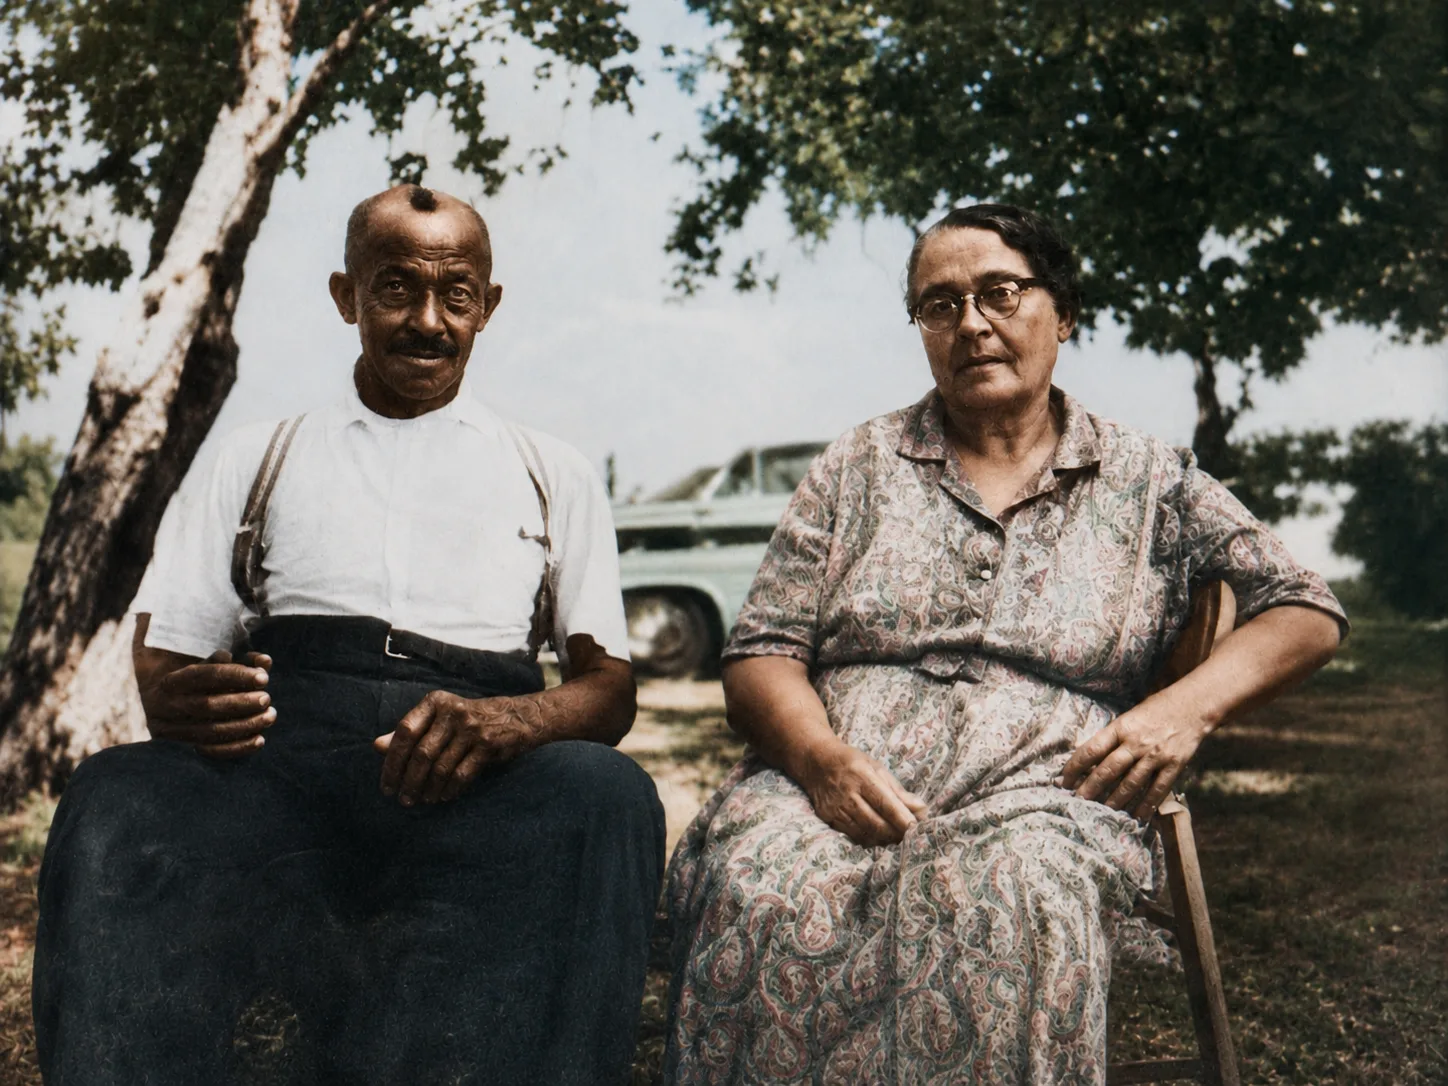
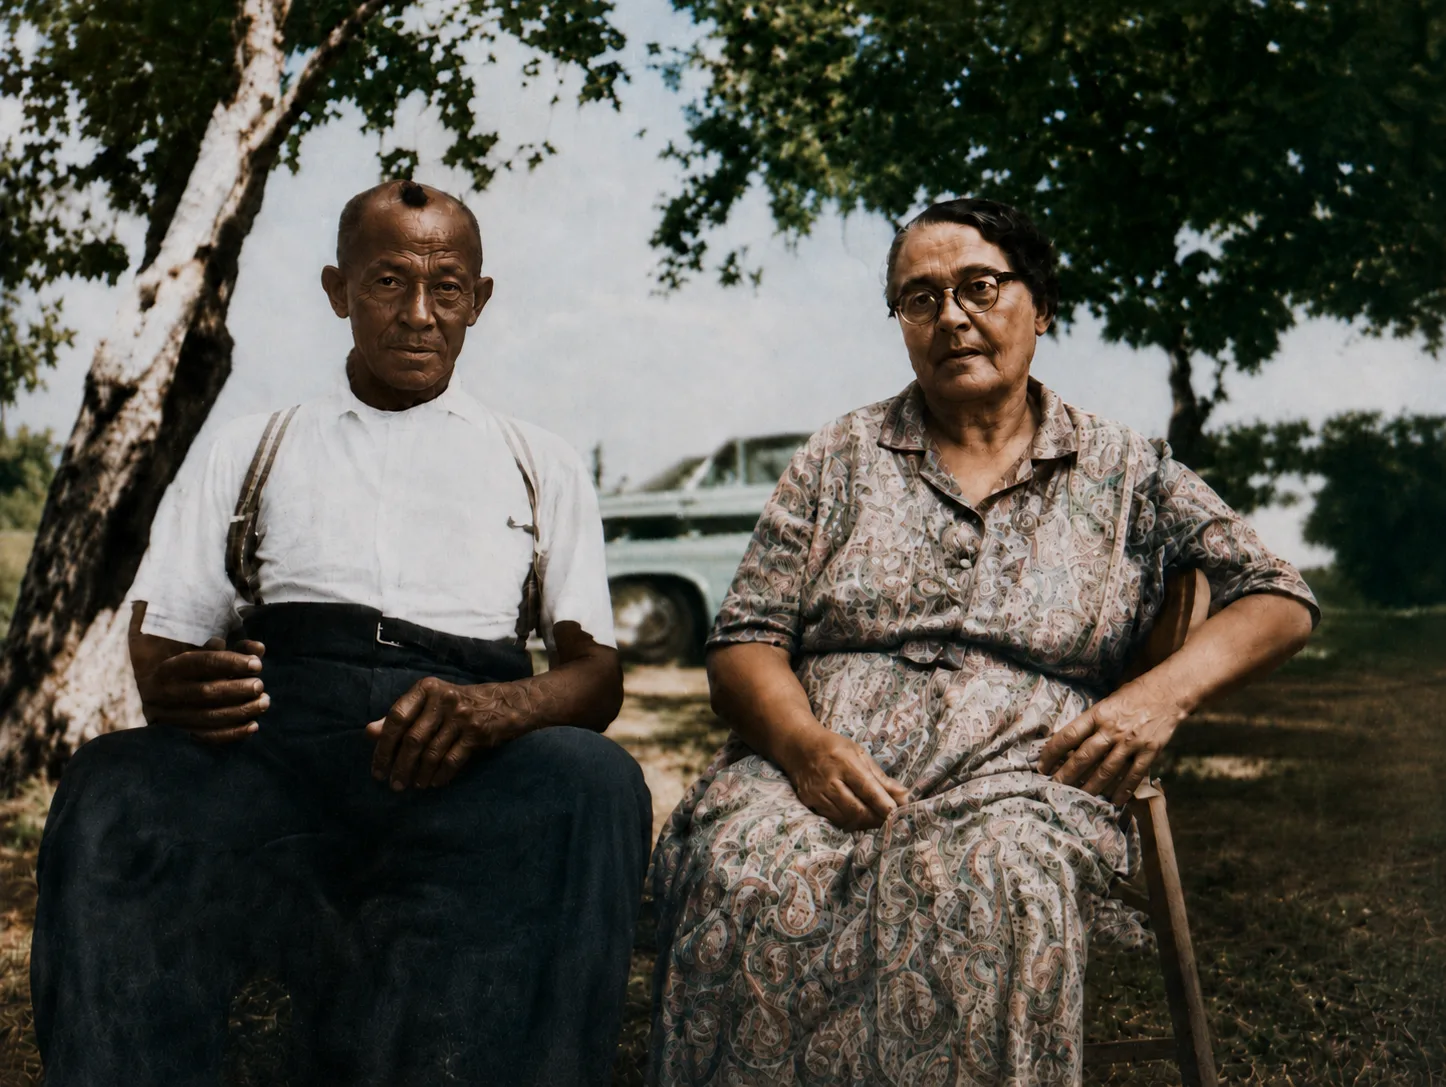
Update portrait header background

diff --git a/qa/page-order-validation-report.md b/qa/page-order-validation-report.md
@@ -1,6 +1,6 @@
 # Page Order Validation Report
 
-Generated: 2026-08-22T17:42:12.845Z
+Generated: 2026-08-23T16:07:54.836Z
 
 | readingPosition | displayNumber | pageId | sourceFile | originalPrintedPageNumber |
 |---:|---:|---|---|---:|
